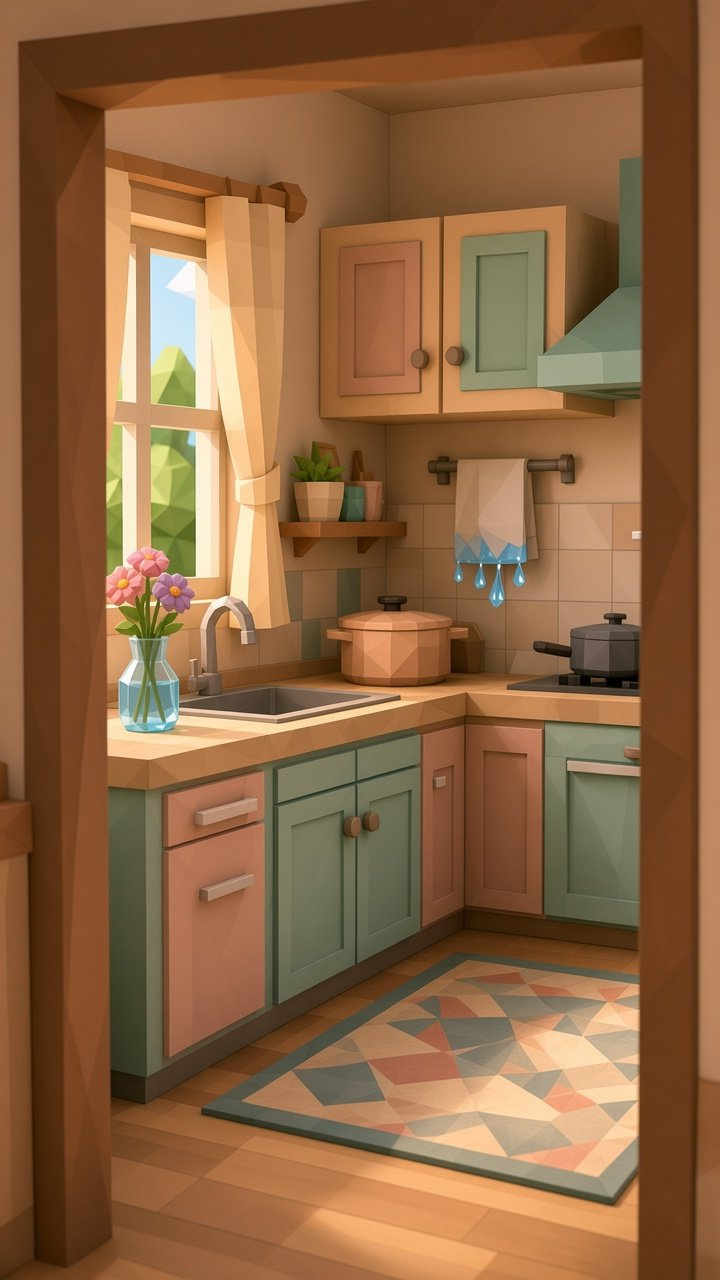
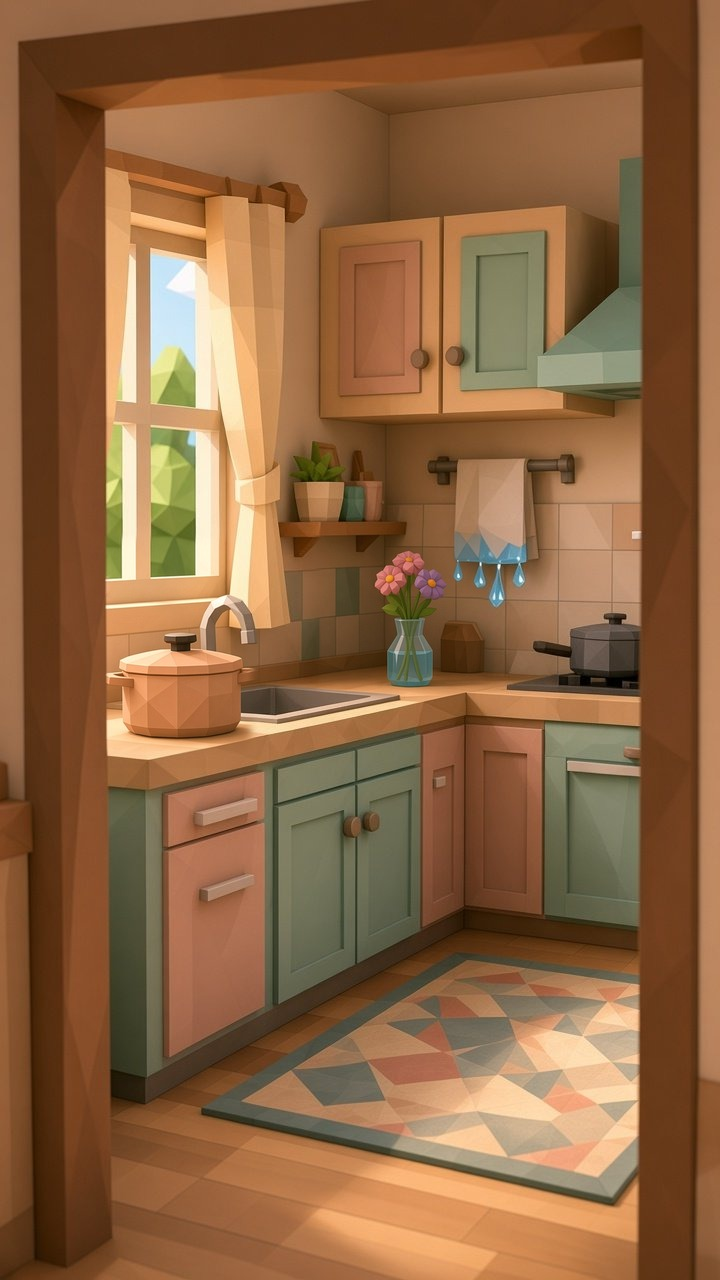
nes v0.6.35: kitchen wide shot swaps the vase and the pot so the vase stands under the towel like the close-up (cutscene 1.0.2, event-01 1.0.10)

Changed region(s): [[0.1528, 0.4062, 0.3667, 0.5938], [0.4583, 0.4062, 0.6722, 0.5625]]

diff --git a/games/never-ending-story/src/modules/cutscene/registry.ts b/games/never-ending-story/src/modules/cutscene/registry.ts
@@ -291,7 +291,7 @@ export const ARTWORKS: Artwork[] = [
     characterIds: [],
     prompt: `${STYLE} Wide Thai home kitchen, wooden cabinets, stove, window, no people. Also used as the locked cover for case-03.`,
     negative: NEGATIVE,
-    styleNotes: `Reconstructed. Mirrored left-right on 2026-11-22 (owner: the render was the wrong way round): stove and hood on the right, sink under the window on the left. This is the story kitchen, not the stir-fry minigame backdrop. ${sheet}`,
+    styleNotes: `Reconstructed. Mirrored left-right on 2026-11-22 (owner: the render was the wrong way round): stove and hood on the right, sink under the window on the left. Vase and pot swapped by hand on 2026-11-23 (owner: the close-up shows the vase under the towel), so the vase stands on the back counter under the towel and the pot by the faucet. This is the story kitchen, not the stir-fry minigame backdrop. ${sheet}`,
     promptSource: 'reconstructed',
     version: CUTSCENE_VERSION,
     order: 62,

diff --git a/games/never-ending-story/src/modules/cutscene/GDD.md b/games/never-ending-story/src/modules/cutscene/GDD.md
@@ -54,6 +54,6 @@ core >=0.6.13, character ^1.0.0 ผู้ใช้: โปรล็อก, event
 ## 13. Changelog (ผูกกับเวอร์ชันโมดูล)
 | เวอร์ชัน | แอป | การเปลี่ยนแปลง |
 |---|---|---|
-| 1.0.2 | 0.6.35 | `cutscene-01-p2.jpg` ช่องล่าง: หนูกอดย่ามะลิ (เดิมกอดแม่) ที่ประตูหน้าบ้าน ชุดและผมย่าตรงกับช่องกลาง ช่องบนและกลางคงเดิมแบบไม่บีบอัดซ้ำ `case-01.p2` เหลือตัวละคร grandma, player และแก้ `house-map.jpg` ให้ตรงมุมกล้องของแต่ละห้อง (กล้องยืนที่ประตูมองลงล่างของแผนที่ ซ้ายภาพจึงเป็นขวาแผนที่): ครัวเอาโต๊ะกินข้าวออก เคาน์เตอร์รูปตัว L ชิดผนังขวา (ซิงก์ใต้หน้าต่าง) กับผนังล่าง (เตา) พรมลายใกล้ประตูฝั่งซ้าย (สลับเตากับซิงก์ตามที่เจ้าของเกมขอ มองจากประตูครัวหน้าต่างอยู่ซ้าย ฝั่งห้องนอนย่าอยู่ขวา) ห้องนอนย่าสลับกล่องเป็นกล่องเหลืองซ้าย กล่องดาวขวา ห้องนั่งเล่นย้ายชั้นหนังสือจากผนังขวาไปชิดผนังล่างข้างโซฟา ผังห้องเดิม โซนแผนที่และจุดแตะไม่เปลี่ยน เพิ่ม `house-map-2f.jpg` แผนผังชั้น 2 (ห้องทำงานเหนือครัว ห้องลุงเมฆกับป้า) เอากล่องออกจากห้องนอนย่าใน `house-map.jpg` และกลับภาพ `kitchen-wide.jpg` กับ `kitchen-close.jpg` ซ้ายขวาตามที่เจ้าของเกมขอ |
+| 1.0.2 | 0.6.35 | `cutscene-01-p2.jpg` ช่องล่าง: หนูกอดย่ามะลิ (เดิมกอดแม่) ที่ประตูหน้าบ้าน ชุดและผมย่าตรงกับช่องกลาง ช่องบนและกลางคงเดิมแบบไม่บีบอัดซ้ำ `case-01.p2` เหลือตัวละคร grandma, player และแก้ `house-map.jpg` ให้ตรงมุมกล้องของแต่ละห้อง (กล้องยืนที่ประตูมองลงล่างของแผนที่ ซ้ายภาพจึงเป็นขวาแผนที่): ครัวเอาโต๊ะกินข้าวออก เคาน์เตอร์รูปตัว L ชิดผนังขวา (ซิงก์ใต้หน้าต่าง) กับผนังล่าง (เตา) พรมลายใกล้ประตูฝั่งซ้าย (สลับเตากับซิงก์ตามที่เจ้าของเกมขอ มองจากประตูครัวหน้าต่างอยู่ซ้าย ฝั่งห้องนอนย่าอยู่ขวา) ห้องนอนย่าสลับกล่องเป็นกล่องเหลืองซ้าย กล่องดาวขวา ห้องนั่งเล่นย้ายชั้นหนังสือจากผนังขวาไปชิดผนังล่างข้างโซฟา ผังห้องเดิม โซนแผนที่และจุดแตะไม่เปลี่ยน เพิ่ม `house-map-2f.jpg` แผนผังชั้น 2 (ห้องทำงานเหนือครัว ห้องลุงเมฆกับป้า) เอากล่องออกจากห้องนอนย่าใน `house-map.jpg` และกลับภาพ `kitchen-wide.jpg` กับ `kitchen-close.jpg` ซ้ายขวาตามที่เจ้าของเกมขอ ภาพครัวมุมกว้างสลับแจกันกับหม้อ แจกันไปอยู่ใต้ผ้าเช็ดมือให้ตรงกับภาพซูม |
 | 1.0.1 | 0.6.34 | วาด `cutscene-01-p2.jpg` ใหม่เป็นบ้านสมัยใหม่สองชั้นตอนเช้า (เดิมเป็นเรือนไม้ใต้ถุนสูงตอนเย็น) ตัวละครชุดเดิม และวาด `house-map.jpg` ใหม่ ทางเข้าอยู่ด้านบน โซฟาชิดผนังล่างของห้องนั่งเล่น มีบันไดกับห้องน้ำแถวหน้า ห้องซ้ายล่างเป็นห้องนอนย่า สัดส่วน 3:4 เท่าเดิม พรอมต์ของสองภาพนี้เป็น `original` |
 | 1.0.0 | 0.6.13 | ทะเบียนภาพฉากที่ใช้จริง พรอมต์เขียนใหม่จากภาพ |
